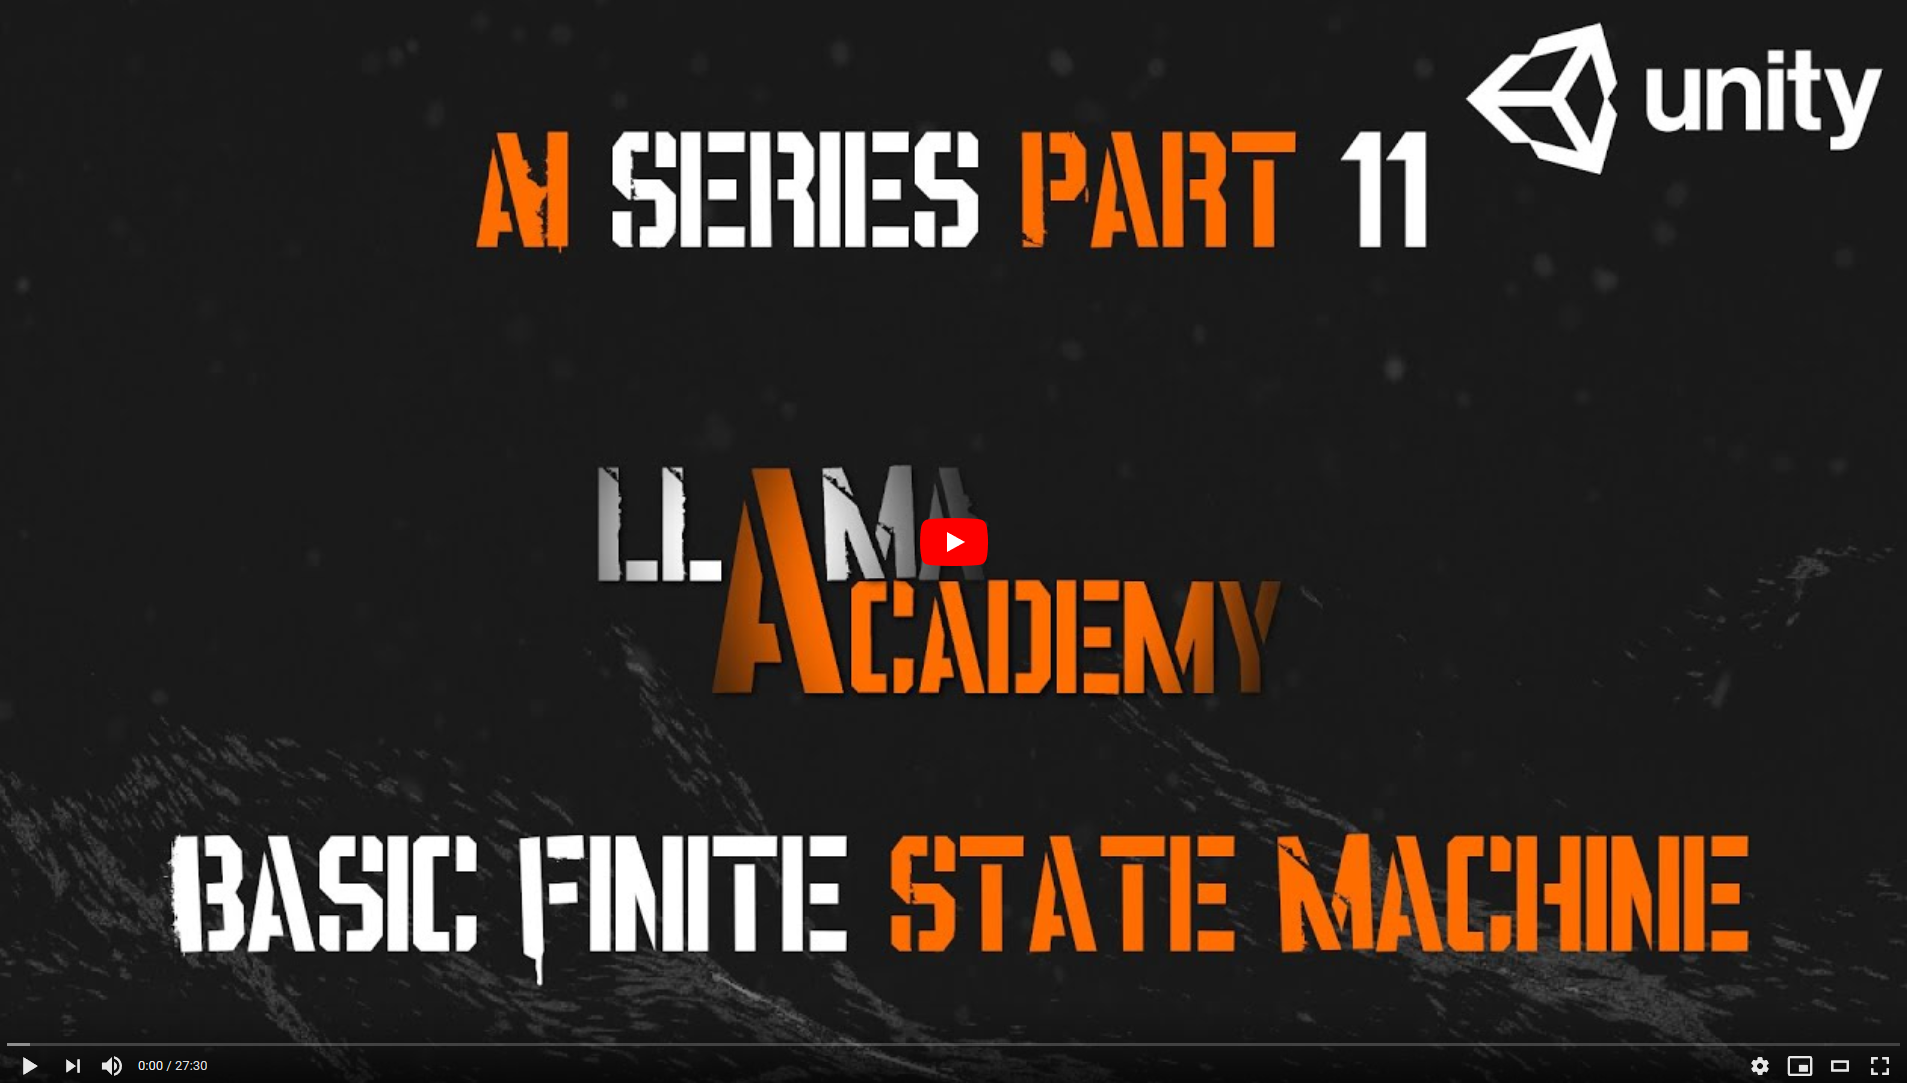
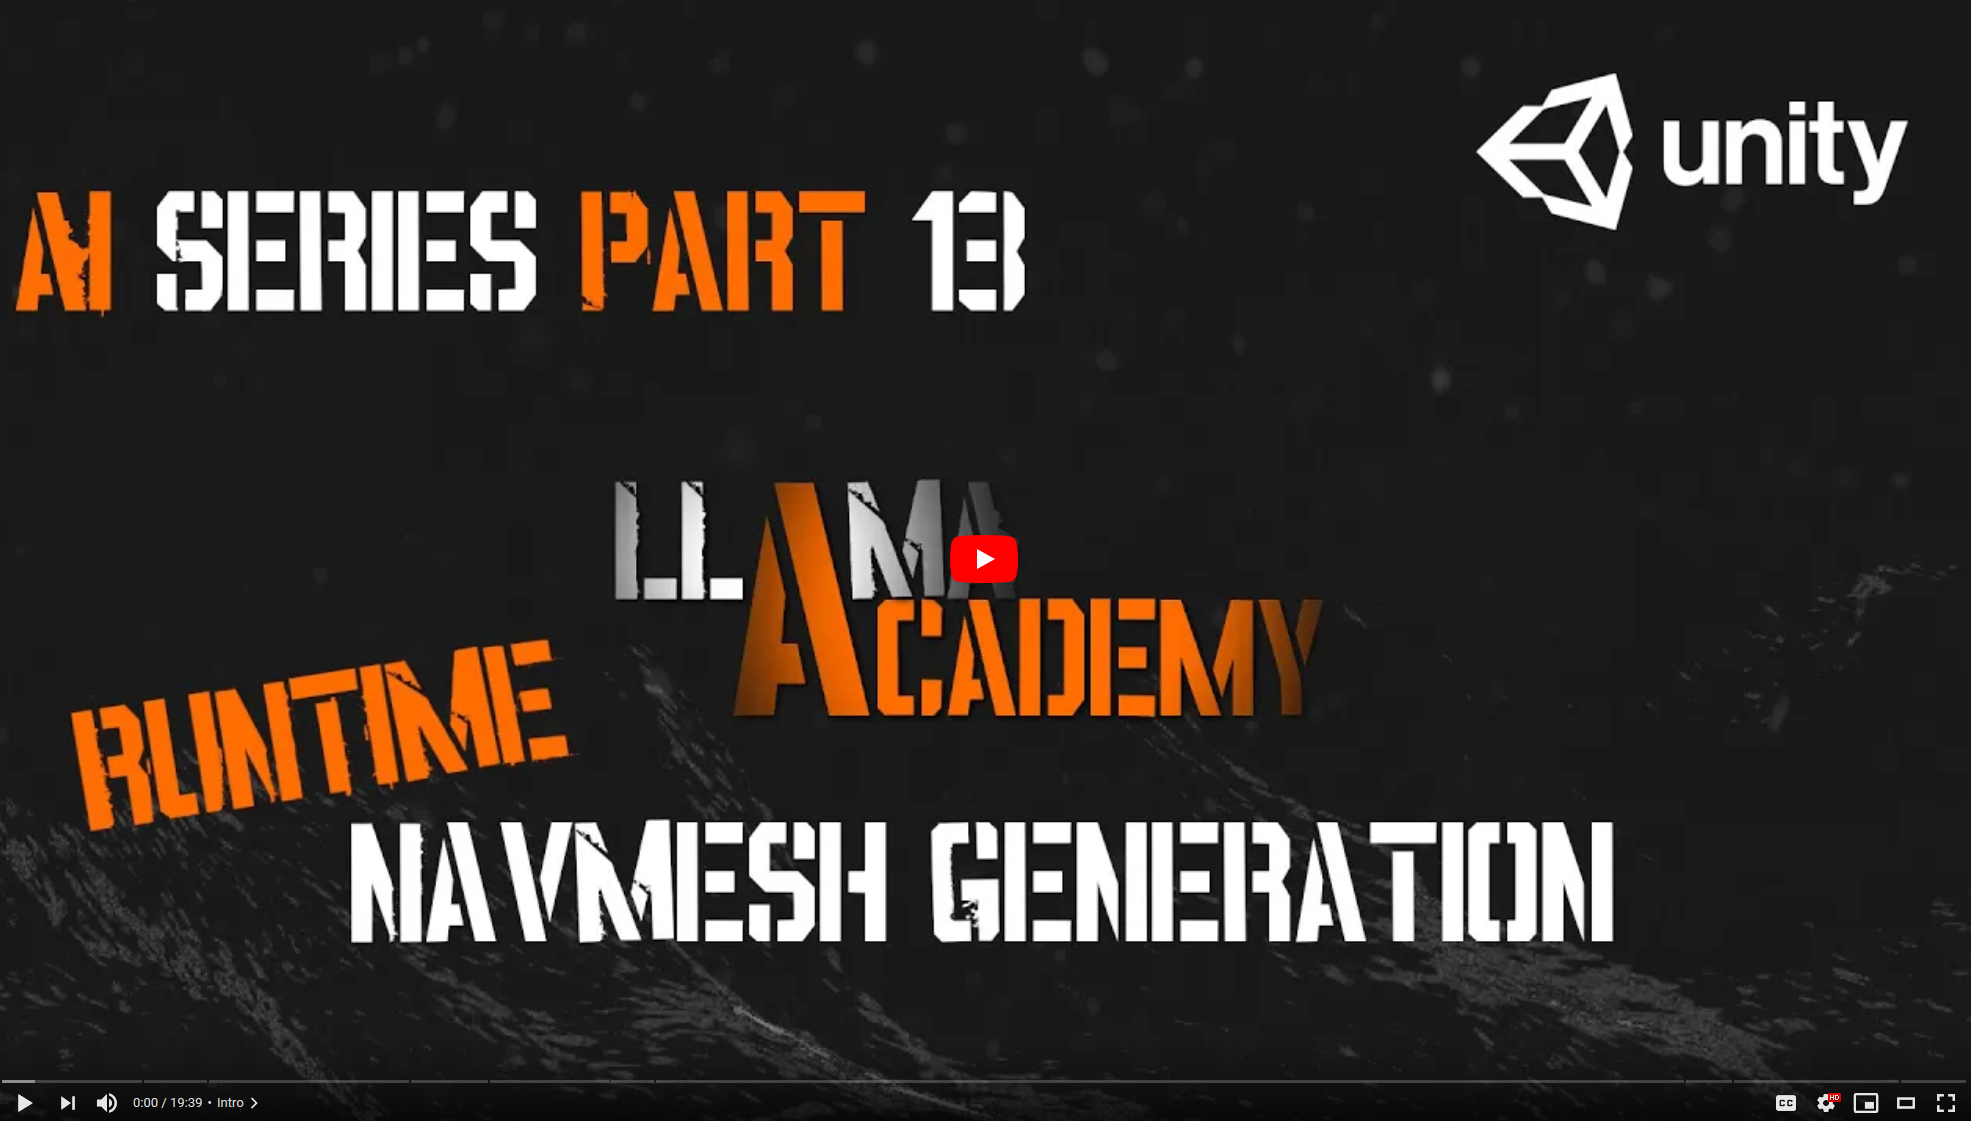
Add editor script used in video for debugging

diff --git a/Assets/Editor/FloorManagerEditor.cs b/Assets/Editor/FloorManagerEditor.cs
@@ -1,0 +1,32 @@
+using UnityEditor;
+using UnityEngine;
+
+[CustomEditor(typeof(FloorManager))]
+public class FloorManagerEditor : Editor
+{
+    private void OnSceneGUI()
+    {
+        GUIStyle Style = new GUIStyle()
+        {
+            normal = new GUIStyleState()
+            {
+                textColor = Color.white
+            },
+            fontSize = 18
+        };
+        FloorManager floorManager = (FloorManager)target;
+
+        if (floorManager == null)
+        {
+            return;
+        }
+
+        Handles.Label(floorManager.transform.position + Vector3.up * 5, $"Acive Section: {floorManager.ActiveSection}", Style);
+
+        foreach (FloorSection section in floorManager.ActiveFloorSections.Values)
+        {
+            Handles.Label(section.transform.position, $"World Index: {section.Index}\r\nPosition: {section.transform.position}", Style);
+            Handles.DrawWireCube(section.transform.position - new Vector3(4, -1.5f, -4), new Vector3(10, 2, 10));
+        }
+    }
+}

diff --git a/Assets/Scripts/Level Generation/FloorManager.cs b/Assets/Scripts/Level Generation/FloorManager.cs
@@ -9,19 +9,17 @@ public class FloorManager : MonoBehaviour
     private Transform WorldGeometry;
     [SerializeField]
     private Transform Player;
-    [SerializeField]
-    private FloorSection[] FloorPrefabs;
+    public FloorSection[] FloorPrefabs;
     [SerializeField]
     [Range(3, 100)]
     private int TargetFloorSections = 3;
     private int HalfTargetFloorSections;
-    [SerializeField]
-    private int ActiveSection = 0;
+    public int ActiveSection = 0;
 
     private const int FloorSize = 10;
     private ObjectPool[] Pools;
     private NavMeshSurface[] Surfaces;
-    private Dictionary<int, FloorSection> ActiveFloorSections = new Dictionary<int, FloorSection>();
+    public Dictionary<int, FloorSection> ActiveFloorSections = new Dictionary<int, FloorSection>();
 
     private void Awake()
     {

diff --git a/README.md b/README.md
@@ -1,7 +1,7 @@
-# Navmesh AI Tutorial 11 - AI State Machines
-The below video is the tutorial that **ENDS** where this project is. If you would like to follow along, check out the [10. Flying Enemies!](https://github.com/llamacademy/ai-series-part-10) 
+# Navmesh AI Tutorial 13 - Procedural World Generation and NavMesh Generation at Runtime
+The below video is the tutorial that **ENDS** where this project is. In the tutorial I review how to construct pieces of level so feel free to follow along with this project.
 
-[![Youtube Tutorial](./Video%20Screenshot.png)](https://youtu.be/3hXkdARwREo&ref=github)
+[![Youtube Tutorial](./Video%20Screenshot.png)](https://youtu.be/QPv_V4TCi8o&ref=github)
 
 In this project we have:
 1. Simple click to move.
@@ -17,6 +17,7 @@ In this project we have:
 11. Improved ScriptableObject Configurations
 12. Flying Enemies
 13. State Machine AI with 3 options - idle, patrol, chase, including line of sight checking
+14. Procedurally generated world that can be navigated by NavMeshAgents
 
 ## Requirements
 * Requires Unity 2019.4 LTS or higher. 
